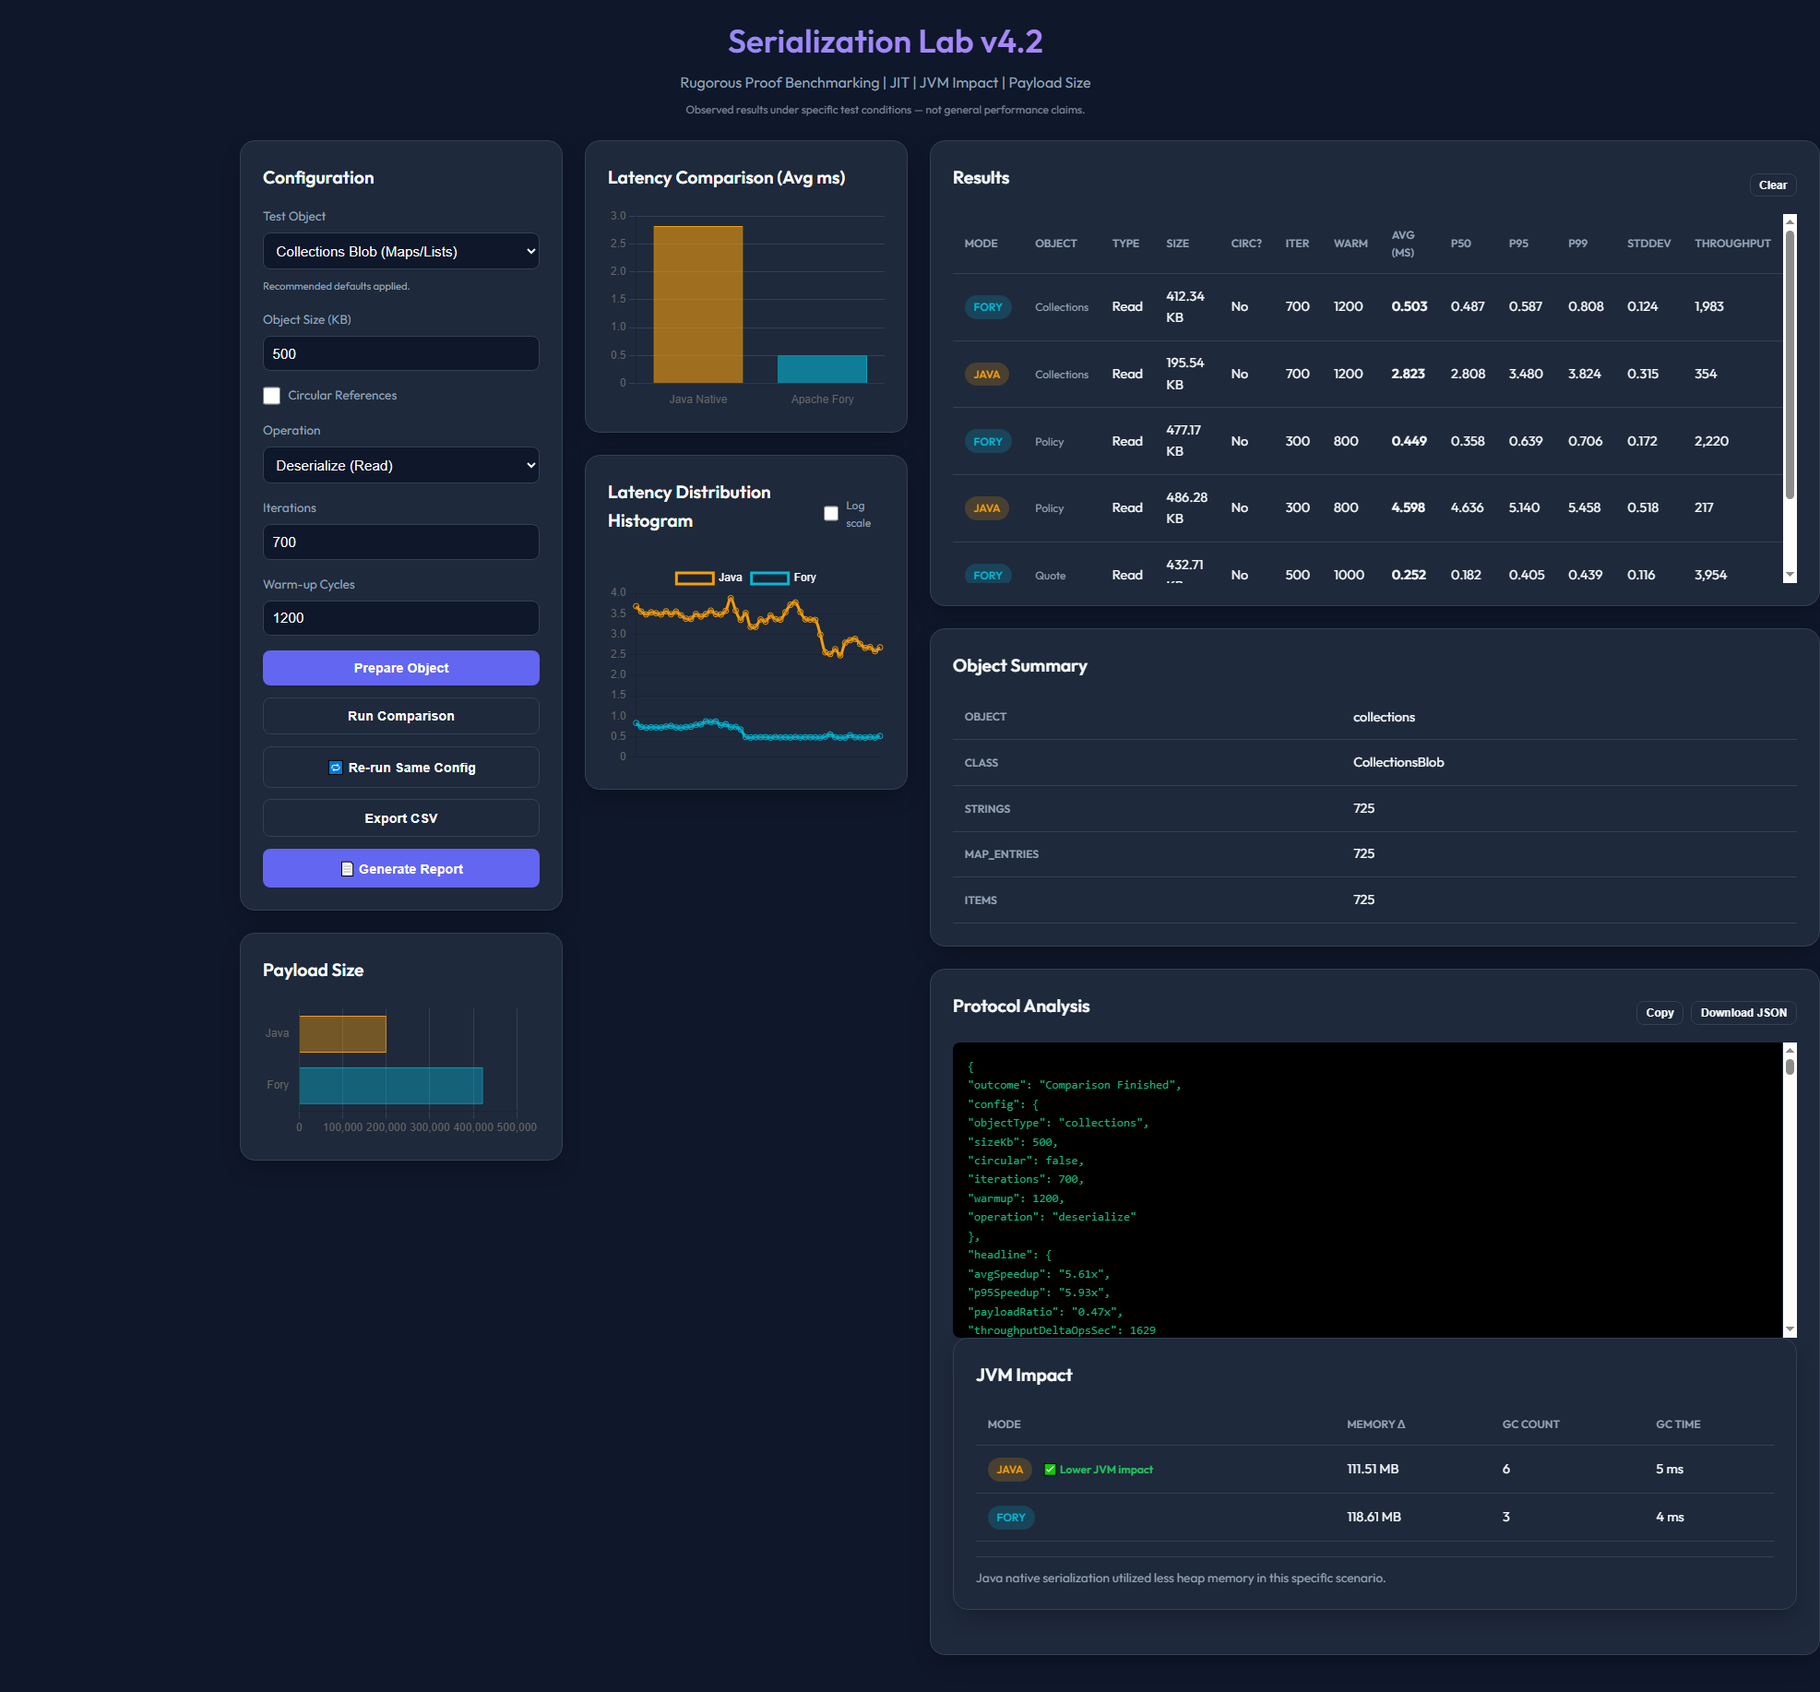
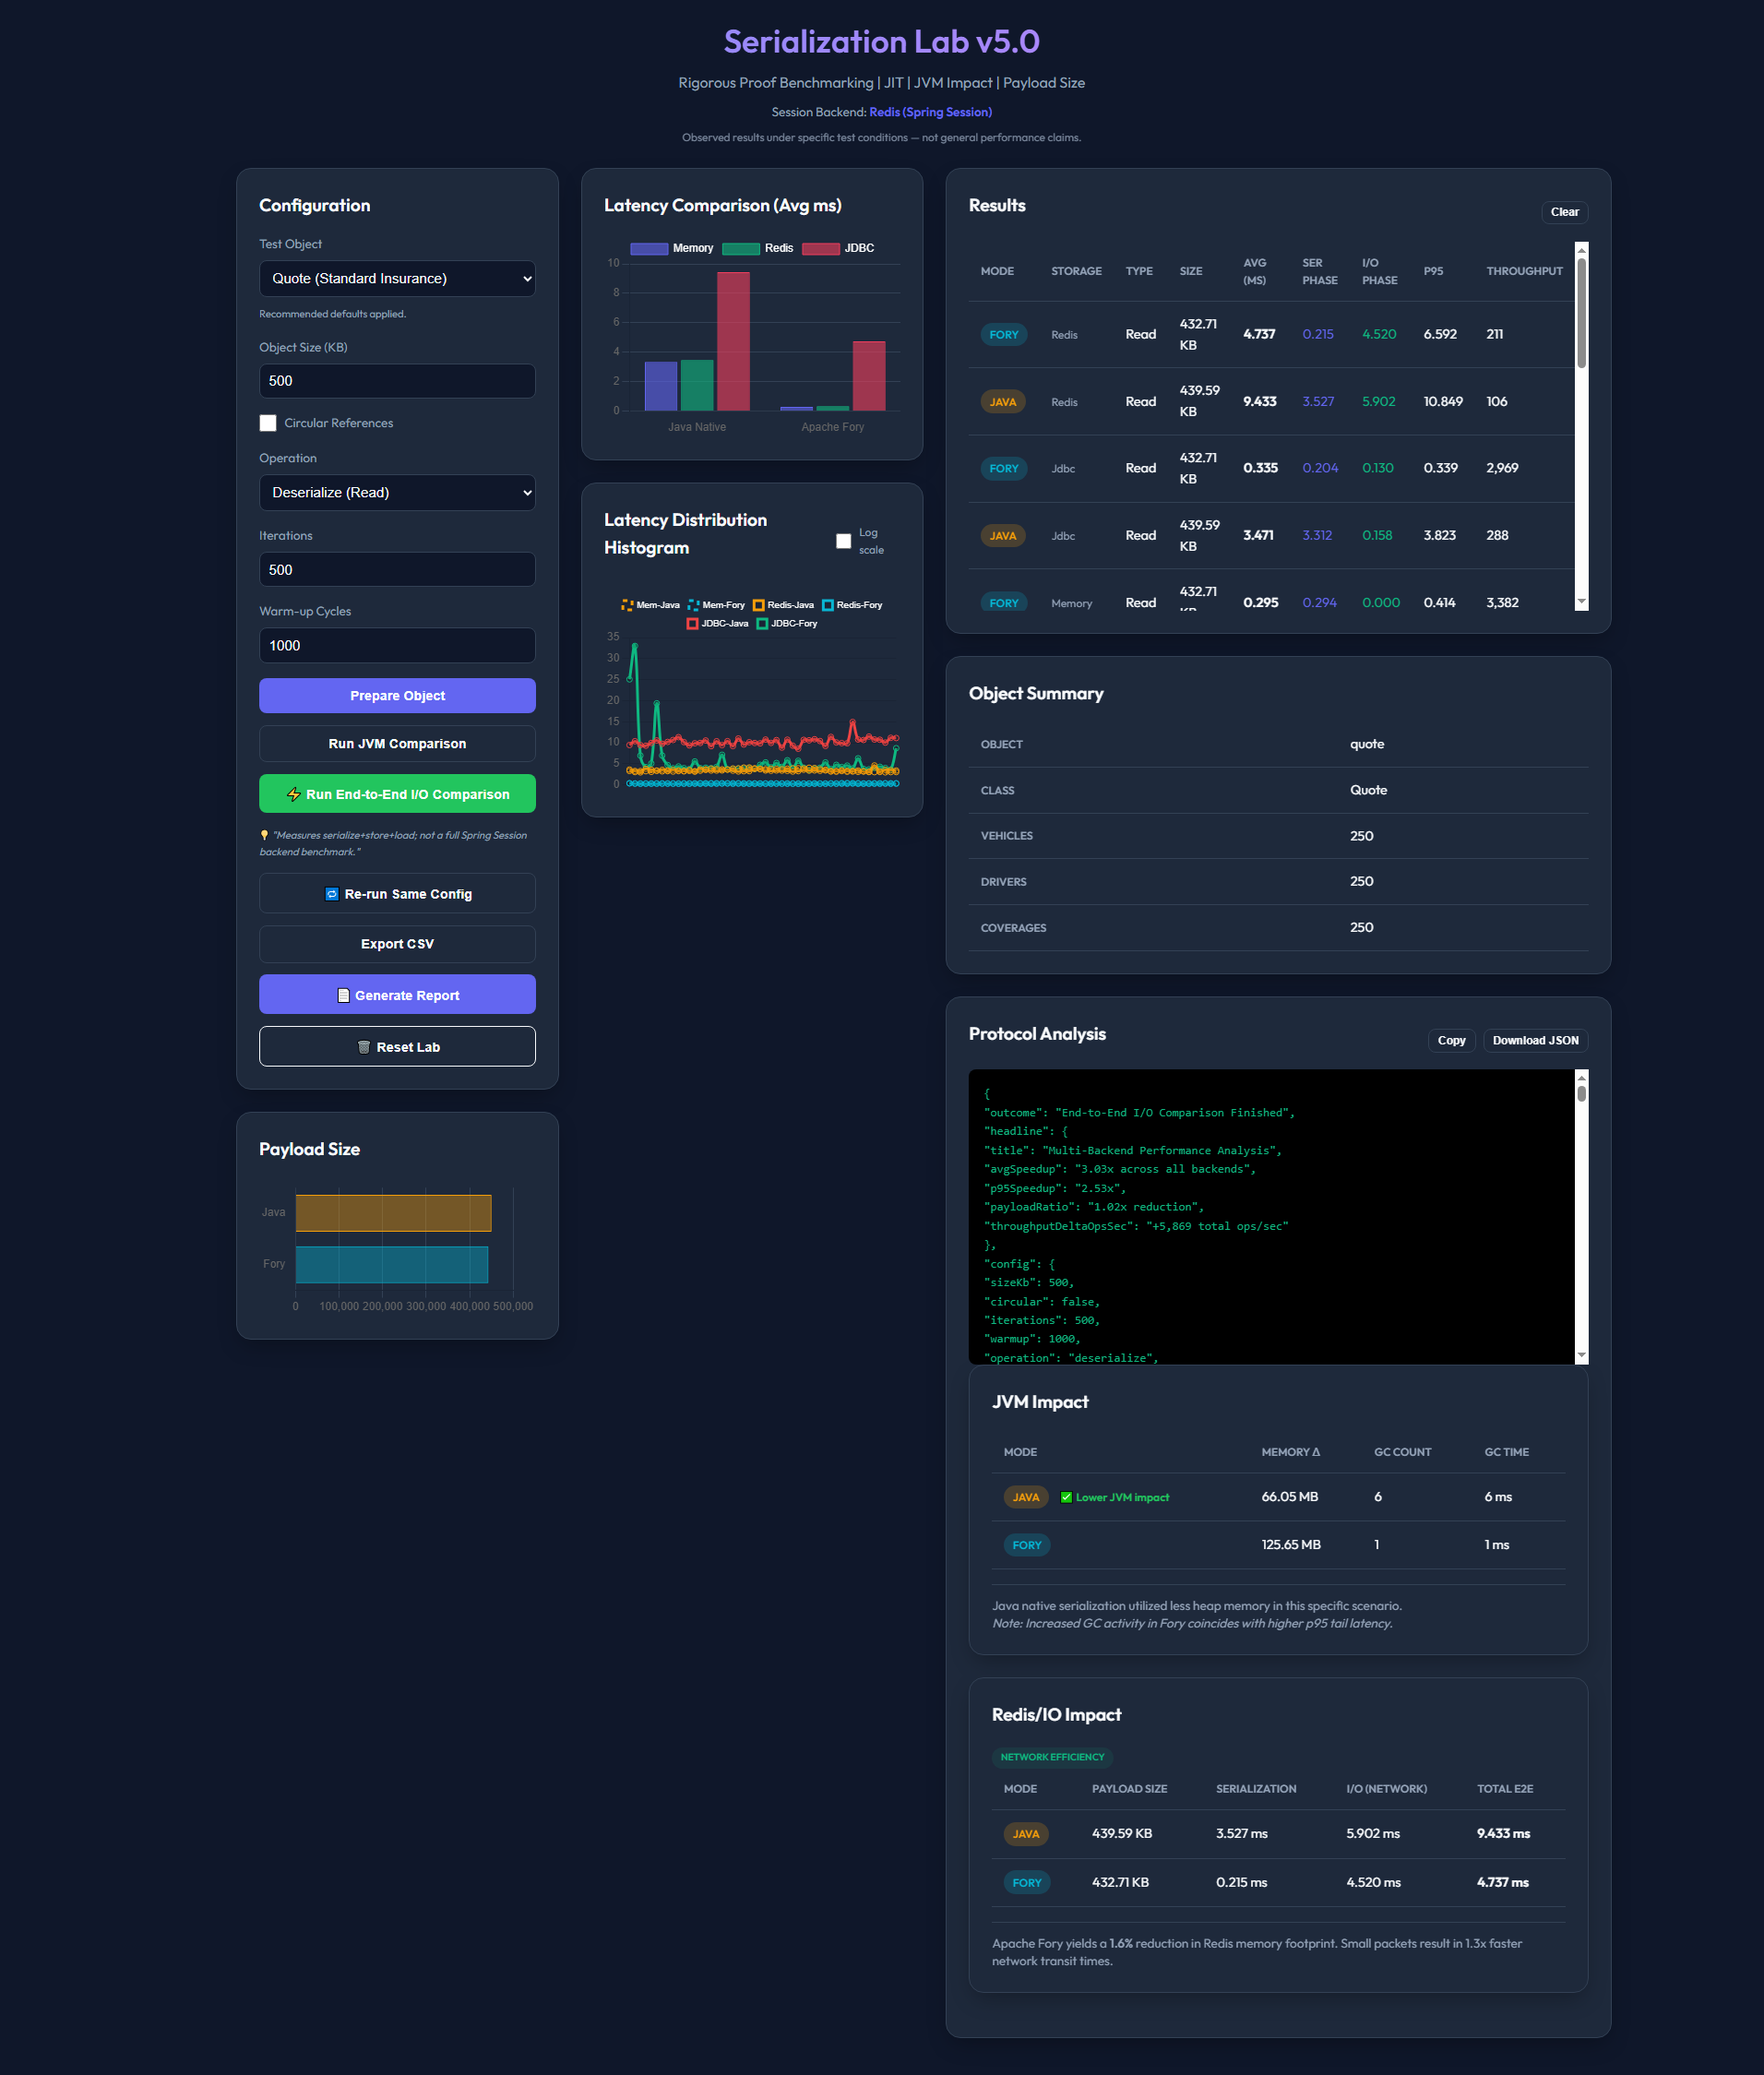
add redis working

diff --git a/src/main/java/com/example/demo/compare/controller/CompareApiController.java b/src/main/java/com/example/demo/compare/controller/CompareApiController.java
@@ -9,12 +9,16 @@ import com.example.demo.compare.serialization.GenericForyCodec;
 import com.example.demo.compare.serialization.JavaSer;
 import jakarta.servlet.http.HttpSession;
 import org.springframework.beans.factory.annotation.Autowired;
-import org.springframework.data.redis.connection.RedisConnection;
-import org.springframework.data.redis.connection.RedisConnectionFactory;
+import org.springframework.core.env.Environment;
 import org.springframework.jdbc.core.JdbcTemplate;
 import org.springframework.web.bind.annotation.*;
 import jakarta.annotation.PostConstruct;
-
+import java.util.ArrayList;
+import java.util.List;
+import java.util.Map;
+import org.springframework.data.redis.connection.RedisConnection;
+import org.springframework.data.redis.connection.RedisConnectionFactory;
+import org.springframework.core.env.Profiles;
 import java.lang.management.GarbageCollectorMXBean;
 import java.lang.management.ManagementFactory;
 import java.util.*;
@@ -32,6 +36,9 @@ public class CompareApiController {
     @Autowired
     private GenericForyCodec genericForyCodec;
 
+    @Autowired
+    private Environment env;
+
     @Autowired(required = false)
     private JdbcTemplate jdbcTemplate;
 
@@ -39,25 +46,38 @@ public class CompareApiController {
     private RedisConnectionFactory redisConnectionFactory;
 
     private final Map<String, byte[]> inMemoryStore = new ConcurrentHashMap<>();
+    private final List<String> activeBackends = new ArrayList<>();
 
     @PostConstruct
     public void init() {
+        activeBackends.add("memory");
+
         if (jdbcTemplate != null) {
             try {
+                jdbcTemplate.execute("SELECT 1"); // Basic check
                 jdbcTemplate
                         .execute("CREATE TABLE IF NOT EXISTS FORY_BENCH_STORE (id VARCHAR(50) PRIMARY KEY, data BLOB)");
-                System.out.println("✅ JDBC Benchmark table initialized.");
+                activeBackends.add("jdbc");
+                System.out.println("✅ JDBC Backend Active (Benchmark table initialized)");
             } catch (Exception e) {
-                // Might fail on some DBs if syntax is different, but for H2/SQLServer it's
-                // usually fine
-                System.err.println("❌ Could not create FORY_BENCH_STORE table: " + e.getMessage());
+                System.err.println("❌ JDBC Backend Unavailable: " + e.getMessage());
             }
         }
-        if (redisConnectionFactory != null) {
-            System.out.println("✅ Redis Connection Factory detected.");
-        } else {
-            System.err.println("⚠ Redis Connection Factory NOT found. Redis benchmarks will be skipped.");
+
+        if (redisConnectionFactory != null && env.acceptsProfiles(Profiles.of("redis-session"))) {
+            try (RedisConnection conn = redisConnectionFactory.getConnection()) {
+                conn.ping(); // Robust check
+                activeBackends.add("redis");
+                System.out.println("✅ Redis Backend Active");
+            } catch (Exception e) {
+                System.err.println("⚠ Redis profile active but unreachable. Skipping Redis benchmarks.");
+            }
         }
+    }
+
+    @GetMapping("/backends")
+    public List<String> getBackends() {
+        return activeBackends;
     }
 
     @PostMapping("/store")

diff --git a/README.md b/README.md
@@ -2,9 +2,9 @@
 
 ![Serialization Lab v5.0 Dashboard](lab.png)
 
-This project is a high-performance benchmark laboratory designed to compare **Java Native Serialization** with **Apache Fory (formerly Apache Fury)** in various Spring Session environments (JDBC, Redis, or In-Memory). 
+This project is a high-performance benchmark laboratory designed to compare **Java Native Serialization** with **Apache Fory** in various Spring Session environments (JDBC, Redis, or In-Memory). 
 
-Version 5.0 introduces optional **Redis-backed sessions** and a profile-driven backend toggle.
+Version 5.0 introduces **End-to-End I/O Comparison** across multiple backends and deep **Network Efficiency** analytics.
 
 ---
 
@@ -21,7 +21,11 @@ mvn clean compile
 
 ### 2. Run the Application
 ```powershell
-mvn spring-boot:run
+# Standard mode (Memory + JDBC)
+mvn spring-boot:run "-Dspring-boot.run.profiles=h2"
+
+# Full mode (Memory + JDBC + Redis)
+mvn spring-boot:run "-Dspring-boot.run.profiles=h2,redis-session"
 ```
 
 ### 3. Access the Lab
@@ -31,56 +35,67 @@ mvn spring-boot:run
 
 ## 🎮 Rigorous Proof Features (v5.0)
 
-The laboratory now includes twelve critical areas of proof:
+The laboratory now includes fourteen critical areas of proof:
 
-### 1. JVM Impact Card (NEW v3.3)
-A dedicated UI visualization for system overhead. The dashboard now features a real-time table summarizing:
+### 1. End-to-End I/O Comparison (NEW v5.0)
+A specialized "Three-Backend" benchmark that runs side-by-side across:
+- **Local Memory**: Pure serialization overhead.
+- **Redis (NoSQL)**: High-speed binary key-value storage.
+- **JDBC (SQL)**: Relational BLOB storage (H2 or SQL Server).
+This proves Fory's efficiency is compounding—latency savings are realized in both CPU cycles and I/O wait times.
+
+### 2. Redis/IO Impact Analytics (NEW v5.0)
+A deep-dive card that isolates **Network Efficiency**:
+- **Payload Reductions**: Quantifies the % reduction in bytes traveling over the wire.
+- **I/O Transit Speedup**: Measures how much faster smaller packets travel between the app and Redis.
+
+### 3. Object Summary (NEW v5.0)
+Immediately after preparing a test object, the lab displays a structural summary:
+- **Class Map**: Maps the generated object to its serialization-ready class.
+- **Entity Counts**: Shows the number of nested Vehicles, Drivers, or Map entries created by the industrial factory.
+
+### 4. JVM Impact Card
+A dedicated UI visualization for system overhead:
 - **Memory Δ**: Absolute heap usage change during the test.
 - **GC Collections**: Number of garbage collection events triggered.
 - **GC Time**: Total JVM pause time spent in garbage collection.
 
-### 2. Advanced Statistical Metrics (NEW v3.2)
+### 5. Advanced Statistical Metrics
 Go beyond simple averages with high-fidelity latency tracking:
 - **P50 (Median)**: Typical user experience.
-- **P99 (Tail)**: Captures the worst-case outliers (the "long tail").
+- **P99 (Tail)**: Captures the worst-case outliers.
 - **StdDev**: Measures performance consistency and "jitter."
 
-### 3. Payload Size Analytics
-Fory produces significantly smaller byte arrays than Java. Smaller payloads reduce database storage costs and network bandwidth usage. The UI features a **horizontal bar chart** for visual comparison.
+### 6. Payload Size Analytics
+Fory produces significantly smaller byte arrays than Java. Smaller payloads reduce database storage costs and network bandwidth usage. The UI features a horizontal bar chart and explicit byte breakdowns.
 
-### 4. Throughput Mode (Ops/Sec)
-Measure how many operations the system can handle per second. This illustrates the scalability benefits for high-traffic environments.
+### 7. Latency Histogram with Log Scale
+Visualize the distribution of samples. Features a **Log scale toggle** to better inspect tail latency outliers (P99 spikes).
 
-### 5. Latency Histogram with Log Scale
-Visualize the distribution of samples. v3.3 features a **Log scale toggle** to better inspect tail latency outliers when the performance gap is significant.
+### 8. Circular Reference Test
+Prove robustness with complex domain models. Use the "Circular References" toggle to verify reference tracking (e.g., Parent -> Child -> Parent).
 
-### 6. Circular Reference Test
-Prove robustness with complex domain models. Use the **"Circular References"** toggle to verify Fory's reference tracking (e.g., Parent -> Child -> Parent).
+### 9. Industrial Export (CSV)
+Download a comprehensive **CSV Export** containing all 14 data points for technical reports.
 
-### 7. Industrial Export (CSV)
-Download a comprehensive **CSV Export** containing all 14 data points, including p-levels, throughput, memory deltas, and GC metrics for technical reports.
+### 10. One-Click Benchmark Report (PDF-Ready)
+Generate beautifully styled summaries including:
+- **Executive Summary**: Speedup calculations and payload ratios.
+- **Protocol Analysis JSON**: A machine-readable report with backend key formats.
 
-### 8. One-Click Benchmark Report (NEW v4.0)
-Generate high-quality PDF-ready documentation for management and architects.
-- **Print-Friendly HTML**: A beautifully styled, single-page summary of the test.
-- **Structured JSON**: A full machine-readable data package including raw benchmark samples.
-- **Executive Summary**: Automatically calculates speedups, payload ratios, and identifies the JVM efficiency winner.
+### 11. Smart Winner Highlighting
+Identifies which protocol "won" based on memory allocation and GC pressure.
 
-### 9. Smart Winner Highlighting
-The UI automatically identifies which protocol "won" the JVM efficiency test based on memory allocation and GC pressure.
+### 12. Multi-Object Type Benchmarking
+- **Quote**: Standard flat object.
+- **Insurance Policy**: Deeply nested structure.
+- **Collections Blob**: Map/List heavy generic payloads.
 
-### 10. Multi-Object Type Benchmarking (v4.1)
-Choose between different object schemas to see how serialization scales:
-- **Quote**: Standard flat object with some lists.
-- **Insurance Policy**: Deeply nested structure with various primitives and collections.
-- **Collections Blob**: Map-heavy and list-heavy payload to test generic collection overhead.
+### 13. Recommended Defaults
+Context-aware iterations and warmup logic to ensure JIT optimization (C2 compiler) is reached before measurement begins.
 
-### 11. Recommended Defaults & Object Summary
-- **Context-Aware Presets**: Automatically adjusts iterations and warmup cycles based on the selected object type.
-- **Lightweight Insights**: Provides a summary of object complexity (e.g., coverage counts, driver counts) immediately after preparation without dumping full data.
-
-### 12. Redis Session Backend (NEW v5.0)
-Optionally switch between SQL Server, H2, or Redis as your session store. This proves Fory's efficiency regardless of the storage medium.
+### 14. Reset Lab (NEW v5.0)
+One-click hard reset to clear all bench data, charts, and state for a fresh comparison run.
 
 ---
 
@@ -104,9 +119,13 @@ The laboratory is designed to simulate high-pressure production environments. He
 *   **The Proof**: Tests if the serializer can handle objects that point back to themselves without infinite loops or stack overflows.
 *   **Real-World Impact**: Most "fast" serializers (like JSON or older binary protocols) break on complex business objects. Proving Fory handles circular graphs confirms it is a **safe, drop-in replacement** for native Java serialization without requiring code changes.
 
-### **5. GC Pressure & JVM Longevity**
+### **3. GC Pressure & JVM Longevity**
 *   **The Proof**: Uses the **jvmImpact** metrics (GC Time/Memory Delta) to see how "stressed" the JVM becomes during high iteration bursts.
 *   **Real-World Impact**: High-performance apps often suffer from "tail latency" (P99) spikes caused by Garbage Collection pauses. Fory uses optimized buffer recycling to reduce temporary object creation, leading to a **flatter latency curve** and a more stable production environment.
+
+### **4. Storage Efficiency (Redis/SQL)**
+*   **The Proof**: Isolates I/O wait times in the **Redis/IO Impact** section.
+*   **Real-World Impact**: Serialization efficiency is the "multiplier" for storage costs. 50% smaller objects in Redis mean **50% lower cloud infrastructure costs** and faster network transit.
 
 ---
 
@@ -125,14 +144,13 @@ By default, the lab uses an in-memory **H2 Database** (via the `h2` profile). To
 
 ## 🔬 How to Run a Rigorous Test
 
-1.  **Prepare Environment**: Choose your **Object Size** (e.g., 500 KB) and toggle **Circular References**. Click **"Prepare Object"**.
-2.  **Heat the JIT**: Set **Warm-up Cycles** to `2000` and **Iterations** to `500`.
-3.  **Execute**: Click **"Run Comparison"**. 
+1.  **Prepare**: Choose **Test Object** and click **"Prepare Object"**.
+2.  **Heat the JIT**: Run a **JVM Comparison** first to ensure classes are loaded and C2 compilation has kicked in.
+3.  **Execute E2E**: Click **"⚡ Run End-to-End I/O Comparison"** to see side-by-side results for Memory, Redis, and JDBC.
 4.  **Analyze**: 
-    - Check the **jvmImpact** block in the Protocol Analysis window for GC/Memory data.
-    - Toggle **Log scale** on the Histogram to inspect performance consistency.
-    - Use **🔁 Re-run Same Config** to verify results without regenerating the object.
-5.  **Export**: Click **"Export CSV"** to save your evidence.
+    - Check the **Redis/IO Impact** for network savings.
+    - Inspect the **Protocol Analysis** JSON for machine-readable evidence.
+5.  **Export**: Click **"Generate Report"** for a printable summary.
 
 ---
 
